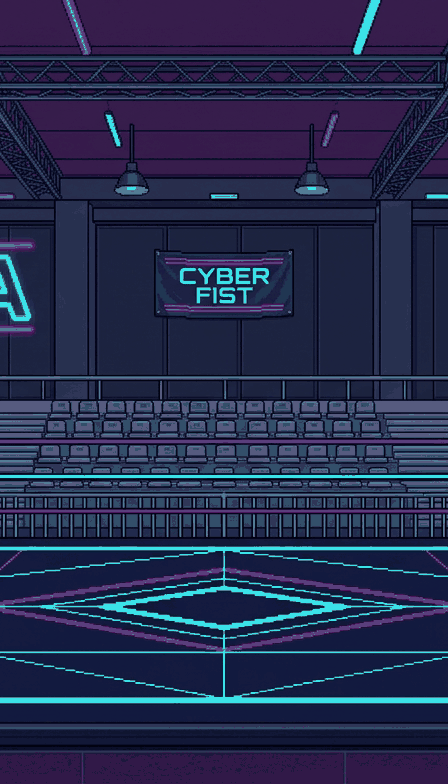
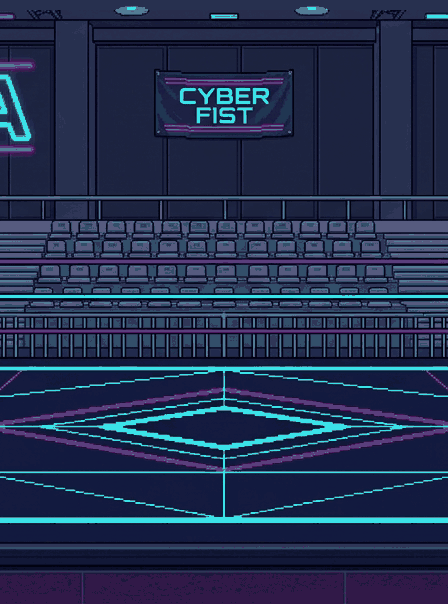
Escenario en capas, alto 4 veces Voltia
El fondo queda solo con el muro. Gradas, valla, cuerdas, suelo y delantal son sprites superpuestos: el público asoma detrás de la valla y Voltia queda entre las cuerdas.

diff --git a/preview/index.html b/preview/index.html
@@ -101,17 +101,19 @@
   <div class="box">
     <canvas id="stagecv" width="960" height="540"></canvas>
     <div class="controls">
-      <label>Versión
-        <select id="stagePick"></select>
-      </label>
       <label>Desplazamiento <input id="stageScroll" type="range" min="0" max="1000" value="500"></label>
-      <label>Zoom (100 = 1:1) <input id="stageZoom" type="range" min="35" max="140" value="100"></label>
+      <label>Zoom (100 = 1:1) <input id="stageZoom" type="range" min="45" max="140" value="55"></label>
       <button id="stageJump" type="button">Simular salto</button>
+      <label><input id="togParallax" type="checkbox" checked> Paralaje</label>
+      <label><input id="togFondo" type="checkbox" checked> Fondo</label>
+      <label><input id="togGradas" type="checkbox" checked> Gradas</label>
       <label><input id="togCrowd" type="checkbox" checked> Público</label>
+      <label><input id="togValla" type="checkbox" checked> Valla</label>
       <label><input id="togLed" type="checkbox" checked> Pantallas</label>
+      <label><input id="togRing" type="checkbox" checked> Suelo</label>
+      <label><input id="togRopes" type="checkbox" checked> Cuerdas</label>
       <label><input id="togGirl" type="checkbox" checked> Voltia</label>
       <label><input id="togFloor" type="checkbox"> Línea de suelo</label>
-      <label><input id="togSeam" type="checkbox"> Cortes de panel</label>
     </div>
     <p class="layers" id="stageNote"></p>
   </div>
@@ -317,9 +319,10 @@
   const cx = cv.getContext('2d');
   cx.imageSmoothingEnabled = false;
   const note = document.getElementById('stageNote');
-  let spec = null, bg = null, stance = null;
-  const led = [], crowd = [];
-  let scroll = 0.5, zoom = 1, jump = 0, t0 = performance.now();
+  let spec = null, stance = null, worldW = 0, worldH = 0;
+  const led = [], crowd = [], sheets = {};
+  let scroll = 0.5, zoom = 0.55, jump = 0, t0 = performance.now();
+  let camX = 0, camW = 1;
 
   function load(src) {
     return new Promise((res, rej) => {
@@ -338,80 +341,78 @@
     const w = world();
     const vw = Math.max(1, Math.round(w.w));
     const vh = Math.max(1, Math.round(w.h));
-    const maxX = Math.max(0, bg.width - vw);
+    const maxX = Math.max(0, worldW - vw);
     const x = Math.round(scroll * maxX);
-    // el suelo queda cerca del borde inferior; el salto desplaza la cámara
-    // para que se vea el aire de arriba sin recortar a Voltia
-    let y = spec.floorY + (spec.apron || 48) - vh - jump;
-    y = Math.round(Math.max(0, Math.min(Math.max(0, bg.height - vh), y)));
-    return { x, y, w: Math.min(vw, bg.width - x), h: Math.min(vh, bg.height - y) };
+    // el suelo queda cerca del borde inferior; el salto sube la cámara
+    let y = spec.floorY + (spec.apron || 36) - vh - jump;
+    y = Math.round(Math.max(0, Math.min(Math.max(0, worldH - vh), y)));
+    return { x, y, w: Math.min(vw, worldW - x), h: Math.min(vh, worldH - y) };
+  }
+
+  // El paralaje se mide desde el centro: ahí las capas coinciden con el dibujo.
+  // Al desplazarse, el muro se mueve menos que el ring.
+  function layerX(factor) {
+    if (!document.getElementById('togParallax').checked) factor = 1;
+    const mid = Math.max(0, (worldW - camW) / 2);
+    const offset = camX - mid;
+    const x = mid + offset * factor;
+    return Math.round(Math.max(0, Math.min(Math.max(0, worldW - camW), x)));
   }
 
   function draw() {
-    if (!spec || !bg) return;
+    if (!spec || !sheets.fondo) return;
     const c = cam();
+    camX = c.x;
+    camW = c.w;
     const tick = Math.floor((performance.now() - t0) / 140);
     cx.imageSmoothingEnabled = false;
     cx.clearRect(0, 0, cv.width, cv.height);
-    cx.drawImage(bg, c.x, c.y, c.w, c.h, 0, 0, cv.width, cv.height);
     const sx = cv.width / c.w, sy = cv.height / c.h;
-    const toX = (x) => (x - c.x) * sx;
-    const toY = (y) => (y - c.y) * sy;
-
-    // sprites a 1:1 en el mundo: el destino es el tamaño del PNG × la escala
-    // de la cámara. Nunca se estiran para rellenar un hueco.
-    const blit = (img, x, y) => {
-      cx.drawImage(img, Math.round(toX(x)), Math.round(toY(y)),
+    const on = (id) => document.getElementById(id).checked;
+    const sheet = (id) => {
+      if (!sheets[id]) return;
+      const lx = layerX(sheets[id].factor);
+      cx.drawImage(sheets[id].im, lx, c.y, c.w, c.h, 0, 0, cv.width, cv.height);
+    };
+    // sprite a 1:1 en el mundo de su capa. Nunca se estira.
+    const blit = (img, x, y, factor) => {
+      const lx = layerX(factor);
+      cx.drawImage(img, Math.round((x - lx) * sx), Math.round((y - c.y) * sy),
         Math.round(img.width * sx), Math.round(img.height * sy));
     };
-    if (document.getElementById('togCrowd').checked && crowd.length) {
+
+    if (on('togFondo')) sheet('fondo');
+    if (on('togLed') && led.length) {
+      const f = led[tick % led.length];
+      for (const s of spec.screens) blit(f, s.x, s.y, spec.screenFactor);
+    }
+    if (on('togGradas')) sheet('gradas');
+    if (on('togCrowd') && crowd.length) {
       const band = spec.crowd;
       const step = band.step || crowd[0].width;
       let i = 0;
       for (let x = band.x0; x + step <= band.x1 + 8; x += step, i++) {
         const f = crowd[(tick + i) % crowd.length];
-        blit(f, x, band.feet - f.height);
+        blit(f, x, band.feet - f.height, band.factor);
       }
     }
-    if (document.getElementById('togLed').checked && led.length) {
-      const f = led[tick % led.length];
-      for (const s of spec.screens) blit(f, s.x, s.y);
+    if (on('togValla')) sheet('valla');
+    if (on('togRopes')) sheet('cuerda_trasera');
+    if (on('togRing')) sheet('suelo');
+    if (on('togGirl') && stance) {
+      const feet = spec.floorY - jump;
+      blit(stance, worldW / 2 - stance.width / 2, feet - stance.height, 1);
     }
-    if (document.getElementById('togSeam').checked) {
-      const pw = bg.width / (spec.panels || 3);
-      cx.strokeStyle = '#ffcb3d';
-      cx.lineWidth = 2;
-      for (let i = 1; i < spec.panels; i++) {
-        const x = toX(i * pw);
-        cx.beginPath(); cx.moveTo(x, 0); cx.lineTo(x, cv.height); cx.stroke();
-      }
-    }
-    if (document.getElementById('togFloor').checked) {
-      const y = toY(spec.floorY);
+    if (on('togRopes')) sheet('cuerda_delantera');
+    if (on('togRing')) sheet('delantal');
+    if (on('togFloor')) {
+      const y = (spec.floorY - c.y) * sy;
       cx.strokeStyle = '#ffcb3d';
       cx.setLineDash([6, 4]);
       cx.beginPath(); cx.moveTo(0, y); cx.lineTo(cv.width, y); cx.stroke();
       cx.setLineDash([]);
     }
-    if (document.getElementById('togGirl').checked && stance) {
-      const feet = spec.floorY - jump;
-      blit(stance, bg.width / 2 - stance.width / 2, feet - stance.height);
-    }
     requestAnimationFrame(draw);
-  }
-
-  function fillPick() {
-    const sel = document.getElementById('stagePick');
-    sel.innerHTML = '';
-    for (const c of spec.candidates) {
-      const o = document.createElement('option');
-      o.value = c.file; o.textContent = c.label;
-      if (c.file === spec.active) o.selected = true;
-      sel.appendChild(o);
-    }
-    sel.onchange = async () => {
-      bg = await load('../voltia/stage/' + sel.value);
-    };
   }
 
   document.getElementById('stageScroll').oninput = e => { scroll = e.target.value / 1000; };
@@ -428,23 +429,25 @@
 
   (async () => {
     spec = await (await fetch('../voltia/stage/stage.json', { cache: 'no-store' })).json();
-    bg = await load('../voltia/stage/' + spec.active);
+    for (const layer of spec.layers) {
+      sheets[layer.id] = { im: await load('../voltia/stage/' + layer.file), factor: layer.factor };
+    }
+    worldW = sheets.fondo.im.width;
+    worldH = sheets.fondo.im.height;
     stance = await load('../voltia/stage/' + (spec.fighter || 'fighter.png'));
     for (let i = 0; i < 4; i++) {
       led.push(await load('../voltia/stage/led/f' + i + '.png'));
       crowd.push(await load('../voltia/stage/crowd/f' + i + '.png'));
     }
-    fillPick();
+    const ratio = (worldH / 151).toFixed(1).replace('.', ',');
     note.innerHTML =
-      `<b>${spec.name}</b> · ${bg.width}×${bg.height} px · ` +
-      `<b>${spec.panels} paneles</b> de ${bg.width / spec.panels | 0} px. ` +
-      `Voltia ${stance.width}×${stance.height} px, dibujada a 1:1. ` +
-      `Zoom 100 = un píxel del escenario es un píxel de ella. ` +
-      `Aléjalo para ver gradas y pantallas.<br>` +
-      `${spec.note} ` +
-      `Capas: <b>fondo</b> · <b>pantallas</b> ${led[0].width}×${led[0].height} · ` +
-      `<b>público</b> ${crowd[0].width}×${crowd[0].height}. ` +
-      `El salto (170 px) cabe en el aire de arriba.`;
+      `<b>${spec.name}</b> · ${worldW}×${worldH} px · ${ratio}× la figura. ` +
+      `Voltia ${stance.width}×${stance.height}, a 1:1. Zoom 100 = el pixel real.<br>` +
+      `${spec.note}<br>` +
+      `Orden, de atrás a adelante: <b>fondo</b> (muro) · <b>pantallas</b> · ` +
+      `<b>gradas</b> · <b>público</b> · <b>valla</b> · <b>cuerda trasera</b> · ` +
+      `<b>suelo</b> · <b>Voltia</b> · <b>cuerda delantera</b> · <b>delantal</b>. ` +
+      `Quita una capa para ver la de detrás. El paralaje se nota al desplazar.`;
     draw();
   })().catch(err => { note.textContent = 'No se pudo cargar el escenario: ' + err; });
 })();
